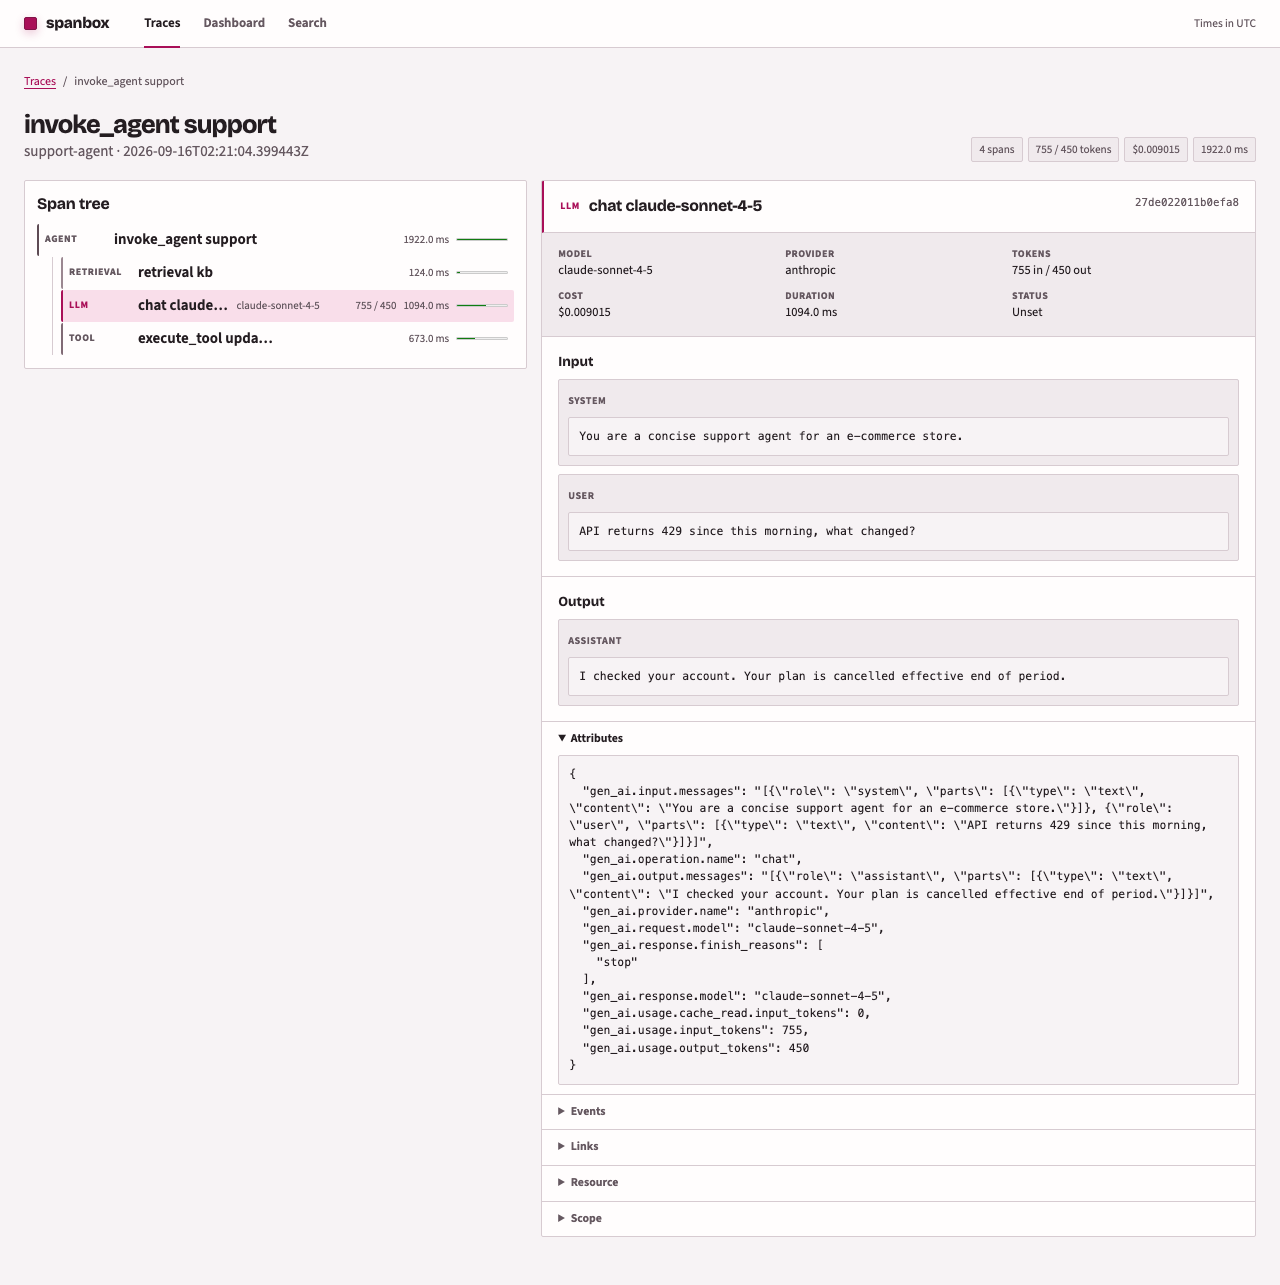
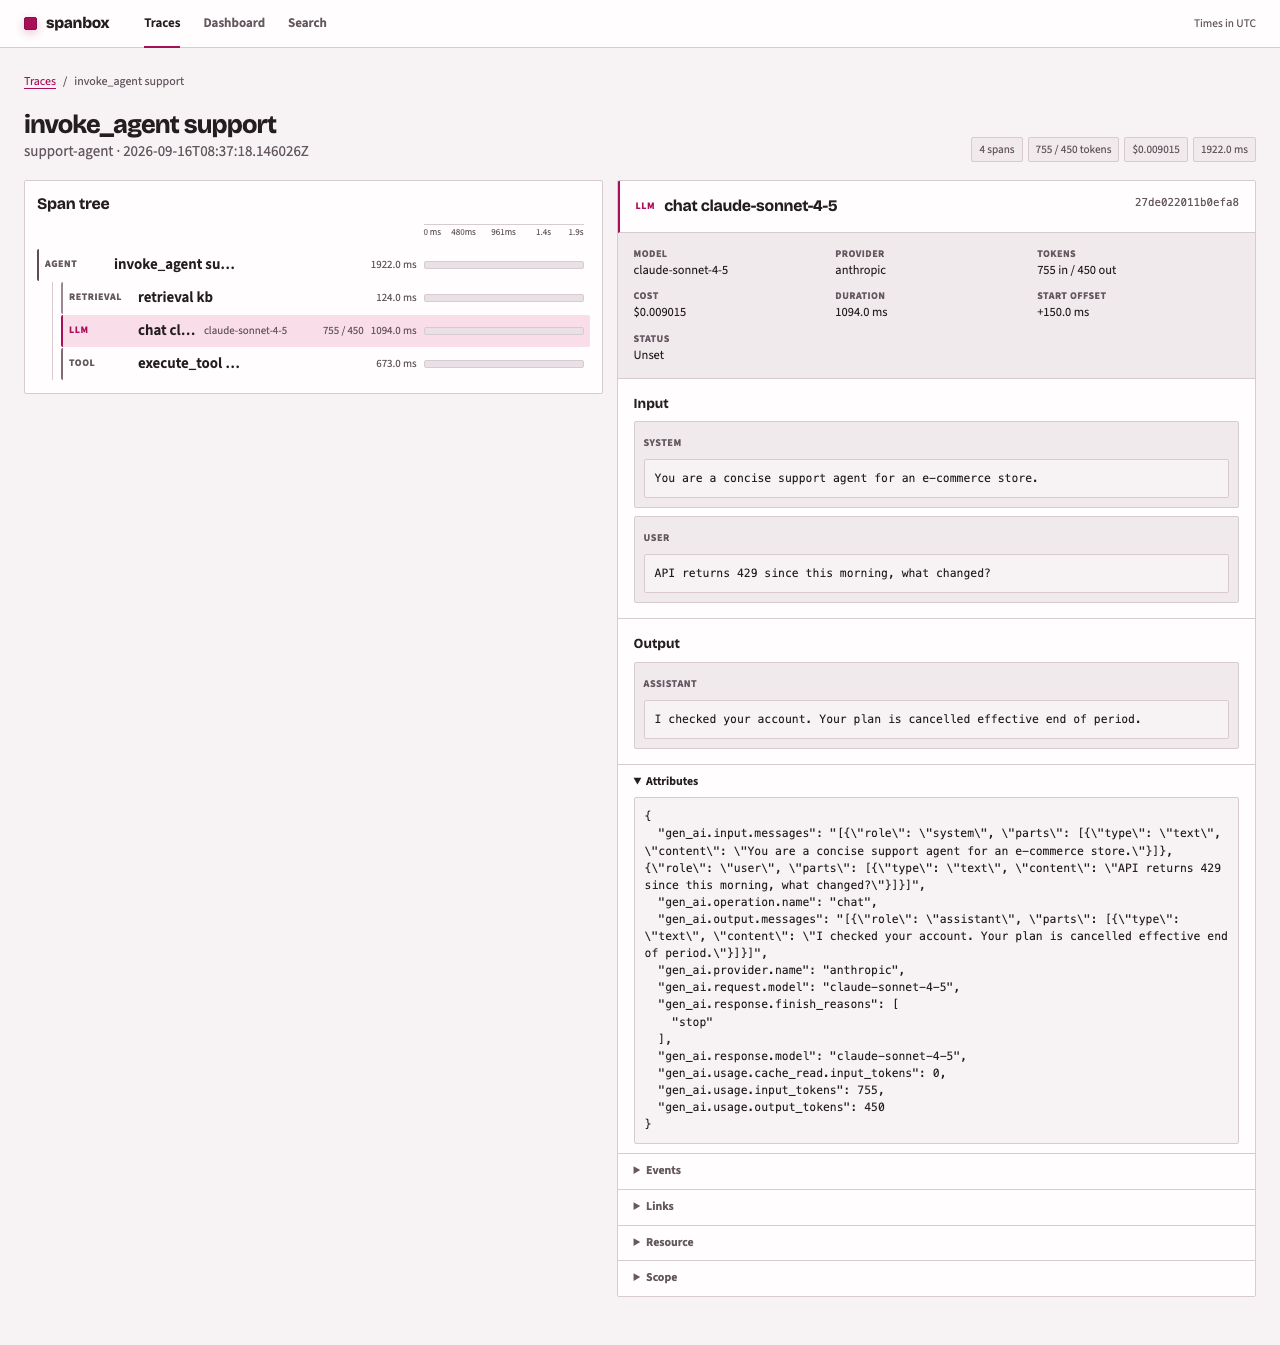
feat(web): add trace waterfall timeline

diff --git a/internal/web/static/app.css b/internal/web/static/app.css
@@ -483,7 +483,7 @@ tbody tr:hover { background: color-mix(in srgb, var(--accent) 5%, var(--surface)
 
 .trace-layout {
   display: grid;
-  grid-template-columns: minmax(360px, 0.88fr) minmax(440px, 1.25fr);
+  grid-template-columns: minmax(540px, 0.95fr) minmax(440px, 1.05fr);
   gap: 14px;
   align-items: start;
 }
@@ -501,9 +501,32 @@ tbody tr:hover { background: color-mix(in srgb, var(--accent) 5%, var(--surface)
 .span-panel { overflow: hidden; }
 .tree-node { margin: 1px 0; }
 
+.time-ruler {
+  position: relative;
+  width: 160px;
+  height: 20px;
+  margin: 0 6px 5px auto;
+  color: var(--muted);
+  border-top: 1px solid var(--line);
+  font-size: 0.6rem;
+}
+
+.time-ruler span {
+  position: absolute;
+  top: 2px;
+  white-space: nowrap;
+  transform: translateX(-50%);
+}
+
+.time-ruler span:nth-child(1) { left: 0; transform: none; }
+.time-ruler span:nth-child(2) { left: 25%; }
+.time-ruler span:nth-child(3) { left: 50%; }
+.time-ruler span:nth-child(4) { left: 75%; }
+.time-ruler span:nth-child(5) { right: 0; transform: none; }
+
 .tree-node > summary {
   display: grid;
-  grid-template-columns: 62px minmax(0, 1fr) minmax(0, 112px) auto auto 52px;
+  grid-template-columns: 62px minmax(0, 1fr) minmax(0, 112px) auto auto 160px;
   gap: 7px;
   overflow: hidden;
   align-items: center;
@@ -538,11 +561,22 @@ tbody tr:hover { background: color-mix(in srgb, var(--accent) 5%, var(--surface)
   white-space: nowrap;
 }
 
-.tree-node meter {
-  width: 52px;
-  min-width: 0;
-  height: 6px;
-  accent-color: var(--accent);
+.waterfall {
+  position: relative;
+  display: block;
+  width: 160px;
+  height: 8px;
+  overflow: hidden;
+  background: var(--surface-3);
+  border: 1px solid var(--line);
+  border-radius: var(--radius);
+}
+
+.waterfall-bar {
+  position: absolute;
+  top: 0;
+  bottom: 0;
+  background: var(--kind-color);
 }
 
 .children {
@@ -751,17 +785,26 @@ pre {
 
 @media (max-width: 1200px) {
   .filters { grid-template-columns: repeat(3, minmax(130px, 1fr)); }
-  .tree-node > summary { grid-template-columns: 62px minmax(0, 1fr) auto auto 52px; }
+  .tree-node > summary { grid-template-columns: 62px minmax(0, 1fr) auto auto 160px; }
   .tree-model { display: none; }
 }
 
-@media (max-width: 980px) {
+@media (max-width: 1040px) {
   .trace-layout { grid-template-columns: 1fr; }
   .span-tree { max-height: 55vh; overflow: auto; }
+}
+
+@media (max-width: 980px) {
   .metrics { grid-template-columns: repeat(3, 1fr); }
   .metrics div { border-bottom: 1px solid var(--line); }
   .chart-grid { grid-template-columns: 1fr; }
   .sql-layout { grid-template-columns: 1fr; }
+}
+
+@media (max-width: 700px) {
+  .tree-node > summary { grid-template-columns: 62px minmax(0, 1fr) minmax(0, 112px) auto auto; }
+  .time-ruler,
+  .waterfall { display: none; }
 }
 
 @media (max-width: 640px) {
@@ -785,8 +828,7 @@ pre {
   .span-panel { margin-top: 12px; }
   .tree-node > summary { grid-template-columns: 58px minmax(100px, 1fr) auto; }
   .tree-model,
-  .tree-tokens,
-  .tree-node meter { display: none; }
+  .tree-tokens { display: none; }
   .metadata { grid-template-columns: repeat(2, 1fr); }
   .span-detail > header { flex-direction: column; }
   .chart-grid article { padding: 9px; }

diff --git a/internal/web/templates/trace.html b/internal/web/templates/trace.html
@@ -7,6 +7,7 @@
 <div class="trace-layout">
   <section class="span-tree" aria-label="Span tree">
     <h2>Span tree</h2>
+    <div class="time-ruler" aria-label="Trace timeline">{{range .TimeLabels}}<span>{{.}}</span>{{end}}</div>
     {{range .Roots}}{{template "node" .}}{{end}}
   </section>
   <section id="panel" class="span-panel" aria-live="polite">
@@ -22,7 +23,7 @@
     <span class="tree-model">{{spanModel .Span}}</span>
     <span class="tree-tokens">{{if or .Span.InputTokens .Span.OutputTokens}}{{tokens .Span.InputTokens}} / {{tokens .Span.OutputTokens}}{{end}}</span>
     <span class="tree-duration">{{duration .Span.DurationMs}}</span>
-    <meter min="0" max="100" value="{{.Width}}" aria-label="Relative duration {{.Width}} percent"></meter>
+    <span class="waterfall" aria-label="Starts at {{.OffsetPct}} percent; spans {{.WidthPct}} percent of trace"><span class="waterfall-bar" style="left:{{.OffsetPct}}%;width:{{.WidthPct}}%"></span></span>
   </summary>
   <div class="children">{{range .Children}}{{template "node" .}}{{end}}</div>
 </details>

diff --git a/internal/web/templates/span.html b/internal/web/templates/span.html
@@ -6,6 +6,7 @@
     <div><dt>Tokens</dt><dd>{{tokens .Span.InputTokens}} in / {{tokens .Span.OutputTokens}} out</dd></div>
     <div><dt>Cost</dt><dd>{{money .Span.CostUSD}}</dd></div>
     <div><dt>Duration</dt><dd>{{duration .Span.DurationMs}}</dd></div>
+    <div><dt>Start offset</dt><dd>+{{duration .StartOffsetMs}}</dd></div>
     <div><dt>Status</dt><dd>{{.Status}}</dd></div>
   </dl>
   {{template "contentBlock" .Input}}

diff --git a/internal/web/pages.go b/internal/web/pages.go
@@ -143,16 +143,18 @@ func cloneValues(values url.Values) url.Values {
 }
 
 type spanNode struct {
-	Span     store.Span
-	Width    int
-	Children []*spanNode
+	Span      store.Span
+	OffsetPct int
+	WidthPct  int
+	Children  []*spanNode
 }
 
 type tracePage struct {
 	layoutData
-	Trace    store.TraceRow
-	Roots    []*spanNode
-	Selected *spanView
+	Trace      store.TraceRow
+	Roots      []*spanNode
+	TimeLabels []string
+	Selected   *spanView
 }
 
 func (deps Deps) trace(w http.ResponseWriter, r *http.Request) {
@@ -174,33 +176,38 @@ func (deps Deps) trace(w http.ResponseWriter, r *http.Request) {
 		}
 		return
 	}
-	roots := buildTree(spans)
-	page := tracePage{layoutData: layoutData{Title: trace.Name, Section: "traces", SQLEnabled: deps.Cfg.AuthToken != "", Version: deps.Version}, Trace: trace, Roots: roots}
+	roots := buildTree(spans, trace.StartNs, trace.EndNs)
+	page := tracePage{
+		layoutData: layoutData{Title: trace.Name, Section: "traces", SQLEnabled: deps.Cfg.AuthToken != "", Version: deps.Version},
+		Trace:      trace, Roots: roots, TimeLabels: timeLabels(trace.StartNs, trace.EndNs),
+	}
 	if len(spans) > 0 {
 		selectedSpan, err := deps.Store.GetSpan(r.Context(), traceID, spans[0].SpanID)
 		if err != nil {
 			http.Error(w, err.Error(), http.StatusInternalServerError)
 			return
 		}
-		selected := newSpanView(selectedSpan)
+		selected := newSpanView(selectedSpan, trace.StartNs)
 		page.Selected = &selected
 	}
 	deps.render(w, "base", page, "templates/base.html", "templates/trace.html", "templates/span.html")
 }
 
-func buildTree(spans []store.Span) []*spanNode {
+func buildTree(spans []store.Span, traceStart, traceEnd int64) []*spanNode {
 	nodes := make(map[string]*spanNode, len(spans))
-	maxDuration := 0.0
+	window := traceEnd - traceStart
 	for _, span := range spans {
-		nodes[span.SpanID] = &spanNode{Span: span}
-		maxDuration = max(maxDuration, span.DurationMs)
+		node := &spanNode{Span: span, WidthPct: 100}
+		if window > 0 {
+			node.OffsetPct = min(max(int(math.Round(float64(span.StartNs-traceStart)*100/float64(window))), 0), 99)
+			node.WidthPct = max(int(math.Round(float64(span.EndNs-span.StartNs)*100/float64(window))), 1)
+			node.WidthPct = min(node.WidthPct, 100-node.OffsetPct)
+		}
+		nodes[span.SpanID] = node
 	}
 	var roots []*spanNode
 	for _, span := range spans {
 		node := nodes[span.SpanID]
-		if maxDuration > 0 {
-			node.Width = int(math.Round(span.DurationMs / maxDuration * 100))
-		}
 		if parent := nodes[span.ParentSpanID]; span.ParentSpanID != "" && parent != nil {
 			parent.Children = append(parent.Children, node)
 		} else {
@@ -208,6 +215,18 @@ func buildTree(spans []store.Span) []*spanNode {
 		}
 	}
 	return roots
+}
+
+func timeLabels(start, end int64) []string {
+	durationMs := max(float64(end-start)/1e6, 0)
+	return []string{"0 ms", compactDuration(durationMs * .25), compactDuration(durationMs * .5), compactDuration(durationMs * .75), compactDuration(durationMs)}
+}
+
+func compactDuration(ms float64) string {
+	if ms >= 1000 {
+		return fmt.Sprintf("%.1fs", ms/1000)
+	}
+	return fmt.Sprintf("%.0fms", ms)
 }
 
 type dashboardPage struct {
@@ -395,7 +414,12 @@ func (deps Deps) span(w http.ResponseWriter, r *http.Request) {
 		}
 		return
 	}
-	deps.render(w, "span", newSpanView(span), "templates/span.html")
+	trace, _, err := deps.Store.GetTrace(r.Context(), parts[0])
+	if err != nil {
+		http.Error(w, err.Error(), http.StatusInternalServerError)
+		return
+	}
+	deps.render(w, "span", newSpanView(span, trace.StartNs), "templates/span.html")
 }
 
 type messageView struct {
@@ -411,14 +435,16 @@ type contentView struct {
 type spanView struct {
 	Span                                       store.Span
 	Status                                     string
+	StartOffsetMs                              float64
 	Input, Output                              contentView
 	Attributes, Events, Links, Resource, Scope string
 }
 
-func newSpanView(span store.Span) spanView {
+func newSpanView(span store.Span, traceStart int64) spanView {
 	status := map[int32]string{0: "Unset", 1: "OK", 2: "Error"}[span.StatusCode]
 	return spanView{
-		Span: span, Status: status, Input: formatContent("Input", span.InputContent), Output: formatContent("Output", span.OutputContent),
+		Span: span, Status: status, StartOffsetMs: max(float64(span.StartNs-traceStart)/1e6, 0),
+		Input: formatContent("Input", span.InputContent), Output: formatContent("Output", span.OutputContent),
 		Attributes: prettyJSON(span.Attributes), Events: prettyJSON(span.Events), Links: prettyJSON(span.Links),
 		Resource: prettyJSON(span.Resource), Scope: prettyJSON(span.Scope),
 	}

diff --git a/internal/store/query.go b/internal/store/query.go
@@ -30,6 +30,7 @@ type TraceRow struct {
 	SessionID    string
 	UserID       string
 	StartNs      int64
+	EndNs        int64
 	DurationMs   float64
 	SpanCount    int
 	LLMCount     int
@@ -40,7 +41,7 @@ type TraceRow struct {
 }
 
 func (s *Store) ListTraces(ctx context.Context, filter TraceFilter) ([]TraceRow, error) {
-	query := `SELECT trace_id, name, service_name, models, session_id, user_id, start_ns, duration_ms,
+	query := `SELECT trace_id, name, service_name, models, session_id, user_id, start_ns, end_ns, duration_ms,
 		span_count, llm_count, input_tokens, output_tokens, cost_usd, has_error FROM traces WHERE 1=1`
 	var args []any
 	if filter.FromNs != 0 {
@@ -93,7 +94,7 @@ func (s *Store) ListTraces(ctx context.Context, filter TraceFilter) ([]TraceRow,
 	for rows.Next() {
 		var row TraceRow
 		if err := rows.Scan(&row.TraceID, &row.Name, &row.ServiceName, &row.Models, &row.SessionID, &row.UserID,
-			&row.StartNs, &row.DurationMs, &row.SpanCount, &row.LLMCount, &row.InputTokens, &row.OutputTokens,
+			&row.StartNs, &row.EndNs, &row.DurationMs, &row.SpanCount, &row.LLMCount, &row.InputTokens, &row.OutputTokens,
 			&row.CostUSD, &row.HasError); err != nil {
 			return nil, err
 		}
@@ -104,10 +105,10 @@ func (s *Store) ListTraces(ctx context.Context, filter TraceFilter) ([]TraceRow,
 
 func (s *Store) GetTrace(ctx context.Context, traceID string) (TraceRow, []Span, error) {
 	var trace TraceRow
-	err := s.r.QueryRowContext(ctx, `SELECT trace_id, name, service_name, models, session_id, user_id, start_ns, duration_ms,
+	err := s.r.QueryRowContext(ctx, `SELECT trace_id, name, service_name, models, session_id, user_id, start_ns, end_ns, duration_ms,
 		span_count, llm_count, input_tokens, output_tokens, cost_usd, has_error FROM traces WHERE trace_id=?`, traceID).
 		Scan(&trace.TraceID, &trace.Name, &trace.ServiceName, &trace.Models, &trace.SessionID, &trace.UserID,
-			&trace.StartNs, &trace.DurationMs, &trace.SpanCount, &trace.LLMCount, &trace.InputTokens, &trace.OutputTokens,
+			&trace.StartNs, &trace.EndNs, &trace.DurationMs, &trace.SpanCount, &trace.LLMCount, &trace.InputTokens, &trace.OutputTokens,
 			&trace.CostUSD, &trace.HasError)
 	if err != nil {
 		return TraceRow{}, nil, err
@@ -135,12 +136,12 @@ func (s *Store) GetSpan(ctx context.Context, traceID, spanID string) (Span, erro
 	return scanSpan(s.r.QueryRowContext(ctx, spanSelect+" WHERE trace_id=? AND span_id=?", traceID, spanID))
 }
 
-const spanTreeSelect = `SELECT trace_id, span_id, parent_span_id, name, kind, duration_ms,
+const spanTreeSelect = `SELECT trace_id, span_id, parent_span_id, name, kind, start_ns, end_ns, duration_ms,
 	request_model, response_model, input_tokens, output_tokens FROM spans`
 
 func scanTreeSpan(row scanner) (Span, error) {
 	var span Span
-	err := row.Scan(&span.TraceID, &span.SpanID, &span.ParentSpanID, &span.Name, &span.Kind, &span.DurationMs,
+	err := row.Scan(&span.TraceID, &span.SpanID, &span.ParentSpanID, &span.Name, &span.Kind, &span.StartNs, &span.EndNs, &span.DurationMs,
 		&span.RequestModel, &span.ResponseModel, &span.InputTokens, &span.OutputTokens)
 	return span, err
 }

diff --git a/internal/web/server_test.go b/internal/web/server_test.go
@@ -329,6 +329,21 @@ func TestTraceFilterRejectsNonFiniteDuration(t *testing.T) {
 	}
 }
 
+func TestBuildTreeKeepsShortSpansVisible(t *testing.T) {
+	spans := []store.Span{
+		{SpanID: "root", StartNs: 1_000, EndNs: 2_000},
+		{SpanID: "child", ParentSpanID: "root", StartNs: 1_500, EndNs: 1_501},
+	}
+	roots := buildTree(spans, 1_000, 2_000)
+	if len(roots) != 1 || len(roots[0].Children) != 1 {
+		t.Fatalf("unexpected tree: %#v", roots)
+	}
+	child := roots[0].Children[0]
+	if child.OffsetPct != 50 || child.WidthPct != 1 {
+		t.Fatalf("child geometry = %d/%d", child.OffsetPct, child.WidthPct)
+	}
+}
+
 func TestTracePages(t *testing.T) {
 	handler, database := newTestHandler(t, "")
 	jsonBody, _ := traceFixture(t)
@@ -348,13 +363,19 @@ func TestTracePages(t *testing.T) {
 	if !strings.Contains(response.Body.String(), `class="kind-row llm"`) {
 		t.Fatalf("trace detail missing kind row marker: %q", response.Body.String())
 	}
+	if !strings.Contains(response.Body.String(), `style="left:0%;width:100%"`) || !strings.Contains(response.Body.String(), `style="left:17%;width:67%"`) {
+		t.Fatalf("trace detail missing waterfall geometry: %q", response.Body.String())
+	}
+	if !strings.Contains(response.Body.String(), `class="time-ruler"`) || !strings.Contains(response.Body.String(), "300ms") {
+		t.Fatalf("trace detail missing time ruler: %q", response.Body.String())
+	}
 	for _, name := range []string{"agent-root", "chat gpt-4o", "lookup-weather"} {
 		if !strings.Contains(response.Body.String(), name) {
 			t.Fatalf("trace detail missing %q: %q", name, response.Body.String())
 		}
 	}
 	response = request(t, handler, http.MethodGet, "/spans/"+traceID+"/2122232425262728", "", "", nil)
-	if response.Code != http.StatusOK || !strings.Contains(response.Body.String(), "What is the weather?") || !strings.Contains(response.Body.String(), "100") {
+	if response.Code != http.StatusOK || !strings.Contains(response.Body.String(), "What is the weather?") || !strings.Contains(response.Body.String(), "100") || !strings.Contains(response.Body.String(), "Start offset") || !strings.Contains(response.Body.String(), "+50.0 ms") {
 		t.Fatalf("span detail status=%d body=%q", response.Code, response.Body.String())
 	}
 
